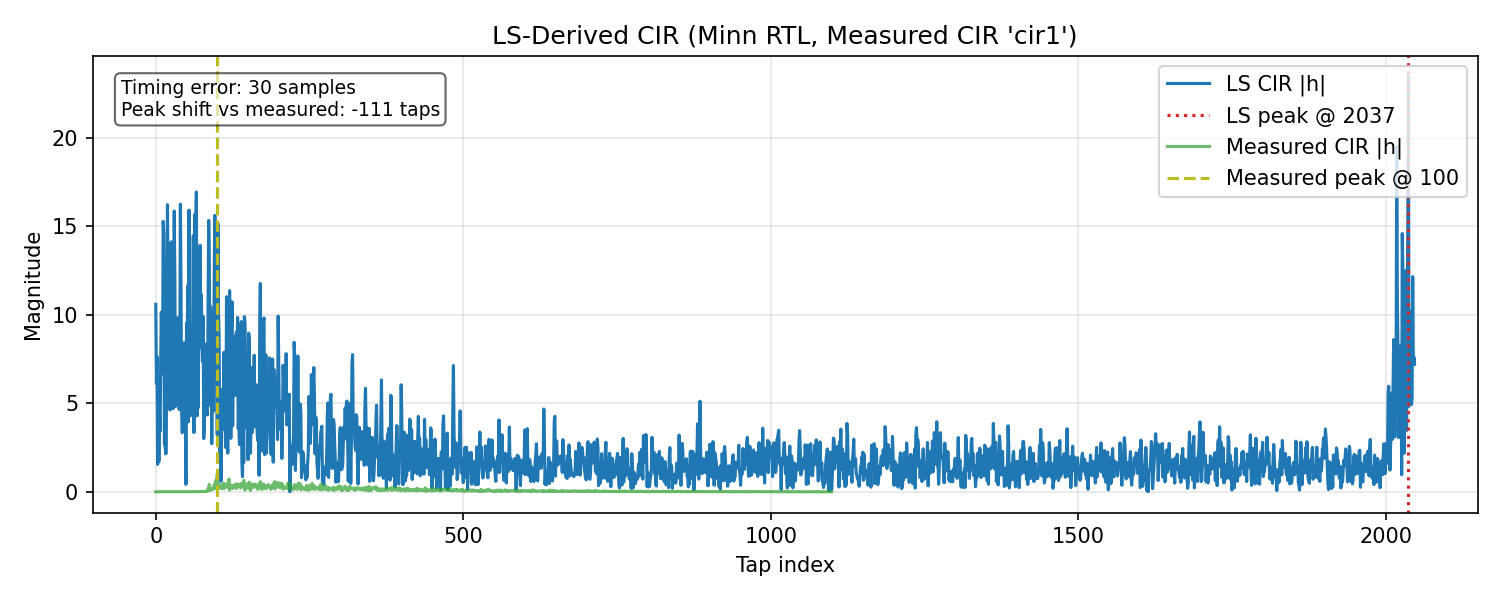
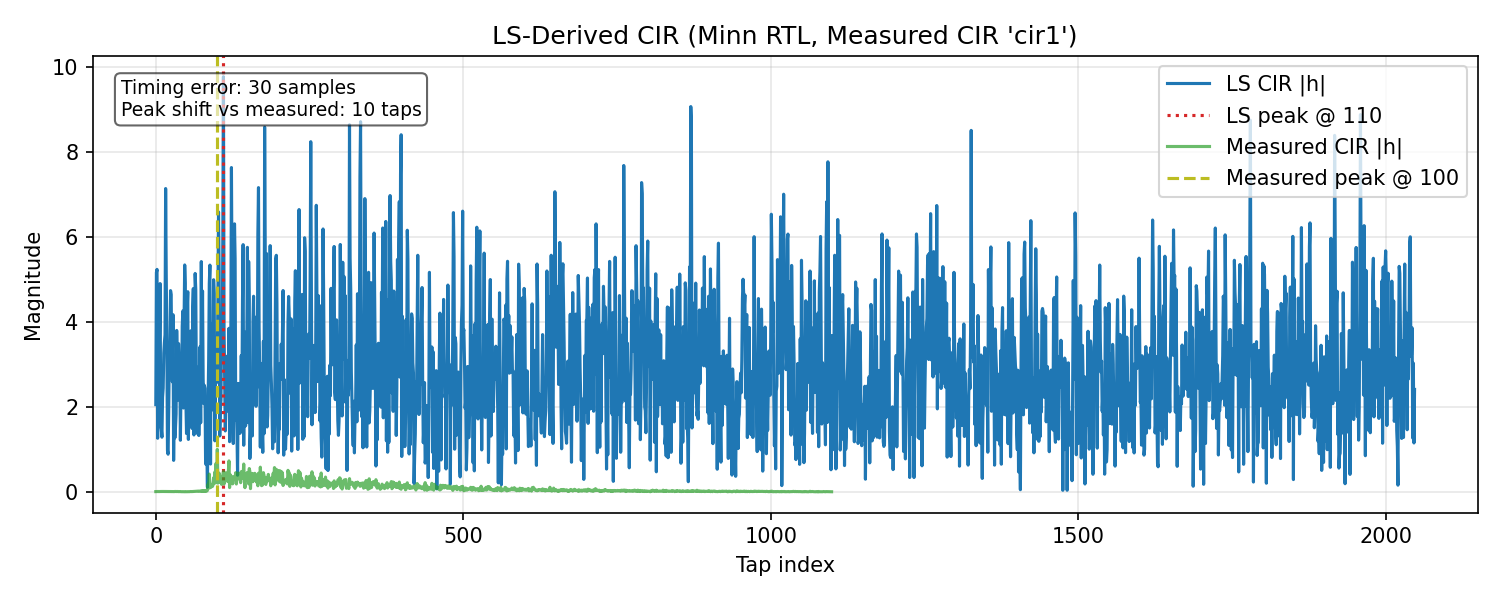
clarified start position etc.

diff --git a/minn_rtl.py b/minn_rtl.py
@@ -445,9 +445,9 @@ SMOOTH_SHIFT = 3
 THRESH_FRAC_BITS = 15
 THRESH_VALUE = int(0.10 * (1 << THRESH_FRAC_BITS))
 HYSTERESIS = 2
-# RTL peak occurs at N + Q samples after N-start (end of preamble + one quarter)
-# This is because corr_previous captures Q3-Q2 correlation as the window slides past
-TIMING_OFFSET = -(N_FFT + N_FFT // 4)  # = -2560 for N_FFT=2048
+# RTL peak naturally aligns with pilot N-start (end of preamble + pilot CP)
+# No offset needed - peak is already where we want to start FFT processing
+TIMING_OFFSET = 0
 
 PLOTS_BASE_DIR = Path("plots") / "minn_rtl"
 
@@ -545,7 +545,7 @@ def run_simulation(channel_name: str | None, plots_subdir: str) -> None:
         )
 
     true_cp_starts = [start + channel_peak_offset for start in frame_starts]
-    expected_n_starts = [cp_start + CYCLIC_PREFIX for cp_start in true_cp_starts]
+    preamble_n_starts = [cp_start + CYCLIC_PREFIX for cp_start in true_cp_starts]
 
     # Compute pilot and data symbol boundaries for each frame
     preamble_len = CYCLIC_PREFIX + N_FFT
@@ -554,9 +554,11 @@ def run_simulation(channel_name: str | None, plots_subdir: str) -> None:
     pilot_n_starts = [cp + CYCLIC_PREFIX for cp in pilot_cp_starts]
     data_cp_starts = [cp_start + preamble_len + symbol_len for cp_start in true_cp_starts]
     data_n_starts = [cp + CYCLIC_PREFIX for cp in data_cp_starts]
-    # Theoretical RTL peak position: N + Q samples after preamble N start
-    # (peak occurs when corr_previous captures the Q3-Q2 correlation)
-    theoretical_peak_positions = [n_start + N_FFT + N_FFT // 4 for n_start in expected_n_starts]
+
+    # RTL peak aligns with pilot N-start - this is where we expect the detection
+    expected_n_starts = pilot_n_starts
+    # Theoretical peak position matches pilot N-start
+    theoretical_peak_positions = pilot_n_starts
     if expected_n_starts:
         primary_expected = expected_n_starts[0]
         timing_error = detected_start - primary_expected
@@ -590,7 +592,7 @@ def run_simulation(channel_name: str | None, plots_subdir: str) -> None:
         peak_label = "Detected peak" if idx == 0 else None
         plt.axvline(peak, color="tab:red", linestyle=":", label=peak_label)
     for idx, expected in enumerate(expected_n_starts):
-        exp_label = "Expected N start" if idx == 0 else None
+        exp_label = "Pilot N start (exp)" if idx == 0 else None
         plt.axvline(expected, color="tab:green", linestyle="--", label=exp_label)
     plt.xlabel("Sample index d")
     plt.ylabel("Metric")
@@ -611,17 +613,17 @@ def run_simulation(channel_name: str | None, plots_subdir: str) -> None:
         gate_label = "Gate window" if seg_idx == 0 else None
         axes[0].axvspan(start, end, color="tab:orange", alpha=0.18, label=gate_label)
     for idx, cp_start in enumerate(true_cp_starts):
-        cp_label = "CP start (true)" if idx == 0 else None
+        cp_label = "Preamble CP start" if idx == 0 else None
         axes[0].axvline(cp_start, color="tab:purple", linestyle="--", label=cp_label)
     for idx, expected in enumerate(expected_n_starts):
-        exp_label = "N start (exp)" if idx == 0 else None
+        exp_label = "Pilot N start (exp)" if idx == 0 else None
         axes[0].axvline(expected, color="tab:green", linestyle="--", label=exp_label)
     for idx, det in enumerate(detected_lines):
         det_label = "Detected start" if idx == 0 else None
         axes[0].axvline(det, color="tab:red", linestyle=":", label=det_label)
-    # Theoretical peak position (N + Q after preamble N start)
+    # Theoretical peak position (aligns with pilot N start)
     for idx, theo_peak in enumerate(theoretical_peak_positions):
-        lbl = "Theo. peak (N+Q)" if idx == 0 else None
+        lbl = "Theo. peak" if idx == 0 else None
         axes[0].axvline(theo_peak, color="tab:pink", linestyle="-.", linewidth=2, label=lbl)
     # Pilot symbol boundaries
     for idx, cp_start in enumerate(pilot_cp_starts):
@@ -655,10 +657,10 @@ def run_simulation(channel_name: str | None, plots_subdir: str) -> None:
         peak_label = "Detected peak" if idx == 0 else None
         axes[1].axvline(peak, color="tab:red", linestyle=":", label=peak_label)
     for idx, expected in enumerate(expected_n_starts):
-        exp_label = "Expected N start" if idx == 0 else None
+        exp_label = "Pilot N start (exp)" if idx == 0 else None
         axes[1].axvline(expected, color="tab:green", linestyle="--", label=exp_label)
     for idx, theo_peak in enumerate(theoretical_peak_positions):
-        lbl = "Theo. peak (N+Q)" if idx == 0 else None
+        lbl = "Theo. peak" if idx == 0 else None
         axes[1].axvline(theo_peak, color="tab:pink", linestyle="-.", linewidth=2, label=lbl)
     axes[1].set_xlabel("Sample index d")
     axes[1].set_ylabel("Metric")
